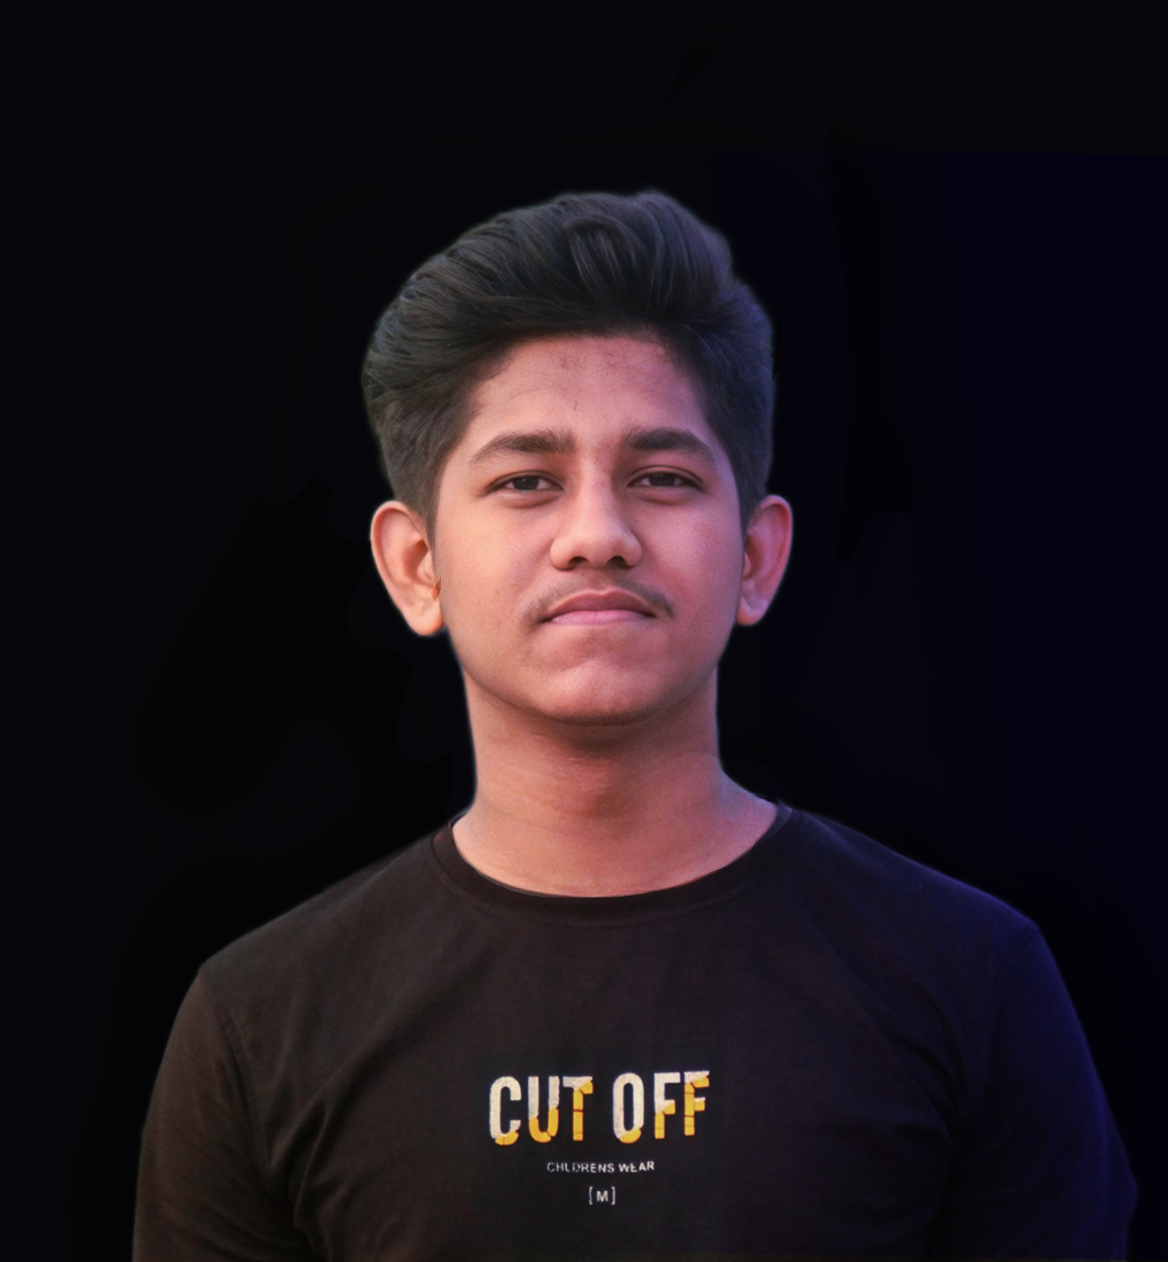
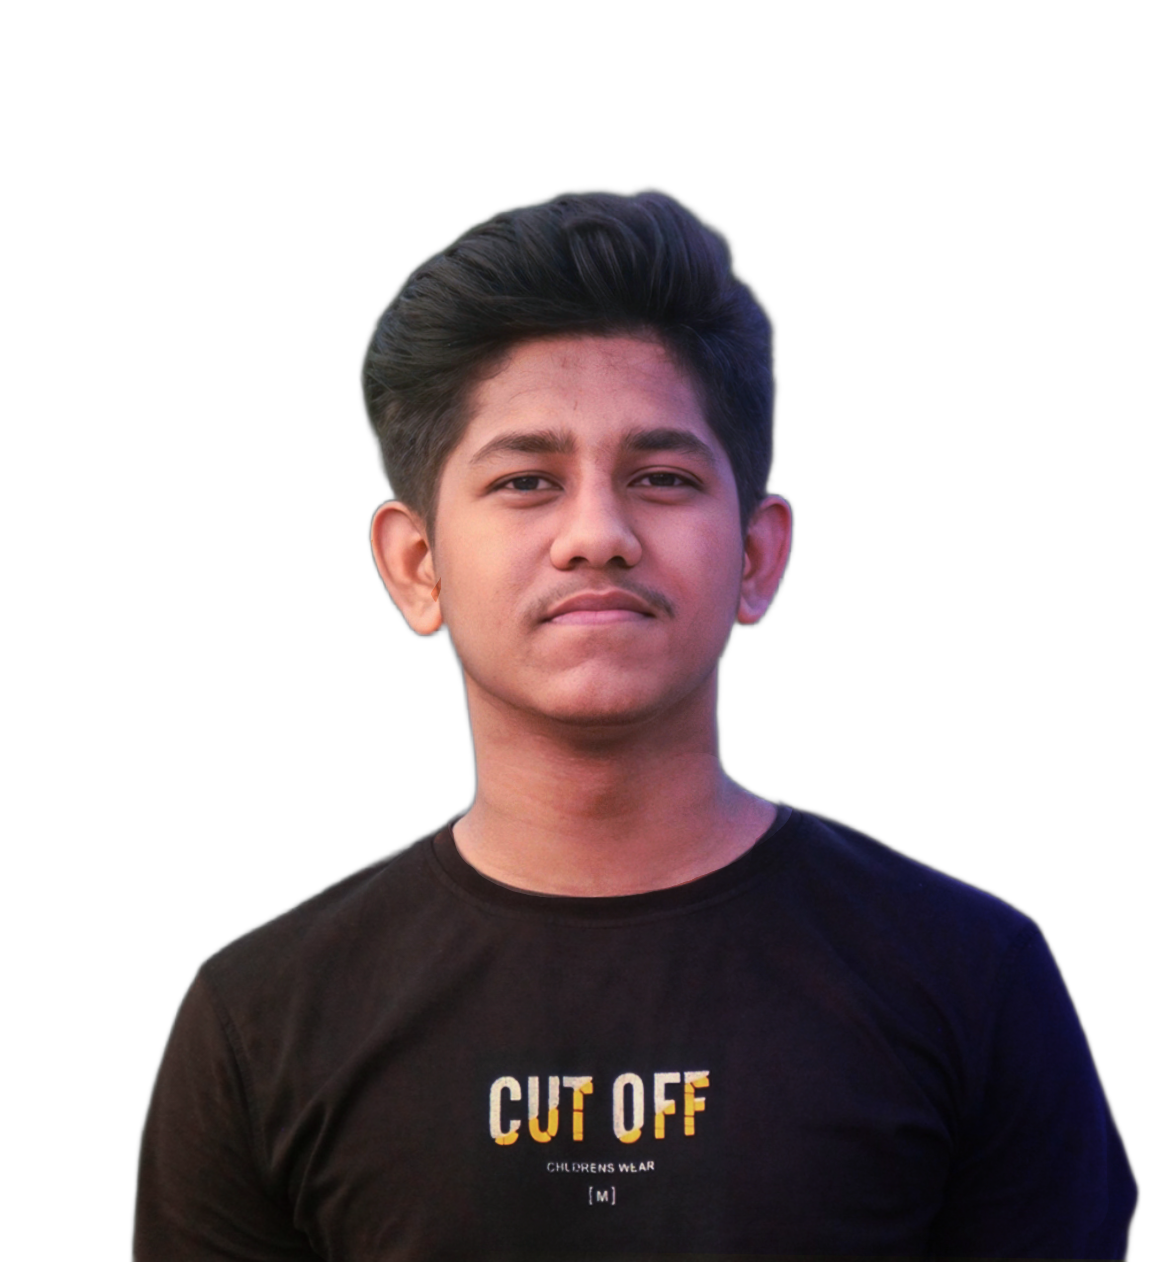
add: primary color and framer motion

diff --git a/src/component/Banner.jsx b/src/component/Banner.jsx
@@ -1,42 +1,81 @@
+import { motion } from 'framer-motion';
 import { Typewriter } from 'react-simple-typewriter';
 import '../App.css';
-import profile from './../img/profile.png'
-import Linkedin from './../img/icons8-linkedin-48.png'
-import fb from './../img/icons8-facebook-48.png'
-import insta from './../img/icons8-instagram-48.png'
-
+import profile from './../img/profile.png';
+import Linkedin from './../img/icons8-linkedin-48.png';
+import fb from './../img/icons8-facebook-48.png';
+import insta from './../img/icons8-instagram-48.png';
 
 const Banner = () => {
     return (
-        <div className="container flex md:flex-row flex-col justify-center items-center gap-4 relative mt-20">
-            <div className='flex-1 hero-content text-white'>
-                <h3 className='text-2xl font-semibold'>Hi, it&apos;s Me <span className="secondary">Faysal Sarker</span></h3>
-                <h2 className='text-5xl font-extrabold gradient-color'>Web Developer</h2>
-              
-       <h4 className='text-2xl font-semibold'>
-                    <Typewriter
-                        className='z-10'
-                        words={["Let's create something awesome together!"]}
-                        loop={false}
-                        cursor
-                        cursorStyle='_'
-                        typeSpeed={90}
-                        deleteSpeed={50}
-                        delaySpeed={1000}
-                    />
-       </h4>
-   
-
-       <div className='my-4 flex gap-2 items-center'><a href={profile} download='cv' className='py-2 px-2 bg-white my-6 text-black rounded-lg font-semibold'>Download CV</a>
+        <div className="container flex md:flex-row flex-col-reverse justify-center items-center gap-4 relative mt-20">
+       <motion.div
+       className='hero-content flex-1'
+       initial={{ opacity: 0, x: -50 }}
+       animate={{ opacity: 1, x: 0 }}
+       transition={{ duration: 1.0 }}
+       >
+                <motion.div 
+                    className=' hero-content text-white flex flex-col justify-center'
+                    initial={{ opacity: 0, x: -50 }}
+                    animate={{ opacity: 1, x: 0 }}
+                    transition={{ duration: 1.1 }}
+                >
+                    <h3 className='text-2xl font-semibold'>Hi, it&apos;s Me <span className="secondary">Faysal Sarker</span></h3>
+                    <motion.h2
+                       initial={{ opacity: 0, x: -50 }}
+                       animate={{ opacity: 1, x: 0 }}
+                       transition={{ duration: 1.2 }}
+                    className='text-5xl font-extrabold gradient'>Web Developer</motion.h2>
+                  
+                    <h4 className='text-2xl font-semibold'>
+                        <Typewriter
+                            className='z-10'
+                            words={["Let's create something awesome together!"]}
+                            loop={false}
+                            cursor
+                            cursorStyle='_'
+                            typeSpeed={90}
+                            deleteSpeed={80}
+                            delaySpeed={1000}
+                        />
+                    </h4>
        
-       <div><img src={Linkedin} alt="" /></div>
-       <div><img src={fb} alt="" /></div>
-       <div><img src={insta} alt="" /></div>
-       </div>
-            </div>
-            <div className='flex-1 flex justify-center'>
-                <img className='rounded-lg w-2/3' src={profile} alt="" />
-            </div>
+                    <div className='my-4 flex gap-2 items-center'>
+                        <a href={profile} download='cv' className='py-2 px-2 gradient-border   text-primary  font-semibold '>Download CV</a>
+                        <motion.div 
+                        
+                        initial={{ opacity: 0, y: 50 }}
+                        animate={{ opacity: 1, y: 0 }}
+                        transition={{ duration: 1.1 }}
+                        whileHover={{ scale: 2.1 }} whileTap={{ scale: 0.9 }}>
+                            <img src={Linkedin} alt="" />
+                        </motion.div>
+                        <motion.div 
+                           initial={{ opacity: 0, y: 50 }}
+                           animate={{ opacity: 1, y: 0 }}
+                           transition={{ duration: 2.2 }}
+                        whileHover={{ scale: 1.1 }} whileTap={{ scale: 0.9 }}>
+                            <img src={fb} alt="" />
+                        </motion.div>
+                        <motion.div 
+                           initial={{ opacity: 0, y: 50 }}
+                           animate={{ opacity: 1, y: 0 }}
+                           transition={{ duration: 2.3 }}
+                        whileHover={{ scale: 1.1 }} whileTap={{ scale: 0.9 }}>
+                            <img src={insta} alt="" />
+                        </motion.div>
+                    </div>
+                </motion.div>
+       </motion.div>
+            <motion.div 
+                className='flex-1 flex   justify-center'
+                initial={{ opacity: 0, x: 50 }}
+                animate={{ opacity: 1, x: 0 }}
+                transition={{ duration: 1.2 }}
+            >
+                <img className='rounded-lg w-2/3 -mt-8' src={profile} alt="" />
+            </motion.div>
         </div>
     );
 };

diff --git a/src/App.css b/src/App.css
@@ -1,18 +1,41 @@
-.secondary{
-  color: #7127BA;
+
+.secondary {
+  background: linear-gradient(135deg, #03DAC5, #018786);
+  -webkit-background-clip: text;
+  -webkit-text-fill-color: transparent;
 }
-.text-primary{
-  color: #302EFD;
+
+.gradient{
+  background: linear-gradient(135deg, #6200EE, #BB86FC);
+  -webkit-background-clip: text;
+  -webkit-text-fill-color: transparent;
+}
+.text-primary {
+  background: linear-gradient(135deg, #BB86FC, #6200EE);
+  background-clip: text;
+  -webkit-text-fill-color: transparent;
 }
 .drawer-icon {
   display: inline-block;
   transition: transform 0.3s;
 }
+.gradient-border {
+  border: 1px solid;
+  border-image-source: linear-gradient(135deg, #BB86FC, #6200EE);
+  border-image-slice: 1;
+  border-radius: 100%  !important;
+ 
+
+  
+}
+
 
 .rotate {
   transform: rotate(45deg);
 }
-
+h1, h2, h3, h4, h5, h6 {
+  color: #E0E0E0;
+}
 
 
 .hero-content {
@@ -25,37 +48,39 @@
   height: 20.125rem;
   border-radius: 50%;
   position: absolute;
-  background-color: #753BAB;
-  box-shadow: 0 0 60px 20px #3D1C69;
-  filter: blur(30px);
+  background: linear-gradient(135deg, #BB86FC, #6200EE);
+
+  filter: blur(225px);
   z-index: -1;
-  top: 3rem;
-  left: 6rem;
+  top: -2rem;
+  left: -3rem;
   transform: translate(-50%, -50%);
 }
-.hero-content-img::after  {
+.hero-content-image::after{
   content: "";
-  width: 28.125rem;
-  height: 28.125rem;
+  width: 20.125rem;
+  height: 20.125rem;
   border-radius: 50%;
   position: absolute;
-  background-color: #718fdd;
-  box-shadow: 0 0 60px 20px #718fdd;
-  filter: blur(30px);
+  background: linear-gradient(135deg, #BB86FC, #6200EE);
+
+  /* filter: blur(225px); */
   z-index: -1;
-  right: -5rem;
-  bottom: -5rem;
+  top: -2rem;
+  left: -3rem;
   transform: translate(-50%, -50%);
 }
+
+
 .skill-content::after {
   content: "";
   width: 28.125rem;
   height: 28.125rem;
   border-radius: 50%;
   position: absolute;
-  background-color: #718fdd;
-  box-shadow: 0 0 60px 20px #718fdd;
-  filter: blur(30px);
+  background: linear-gradient(135deg, #BB86FC, #6200EE);
+ 
+  filter: blur(225px);
   z-index: -1;
   top: 50%;
   left: 50%;

diff --git a/src/Root.jsx b/src/Root.jsx
@@ -7,7 +7,7 @@ const Root = () => {
     return (
         <>
         <Navber/>
-       <div className="max-w-6xl mx-auto"> <Outlet/></div>
+       <div className="max-w-6xl mx-auto px-2"> <Outlet/></div>
        <Footer/>
             
         </>

diff --git a/src/index.css b/src/index.css
@@ -3,3 +3,8 @@
 @tailwind utilities;
 
 
+body {
+    background:#0D0616;
+    color: #E0E0E0;
+    font-family: 'Arial', sans-serif;
+}
